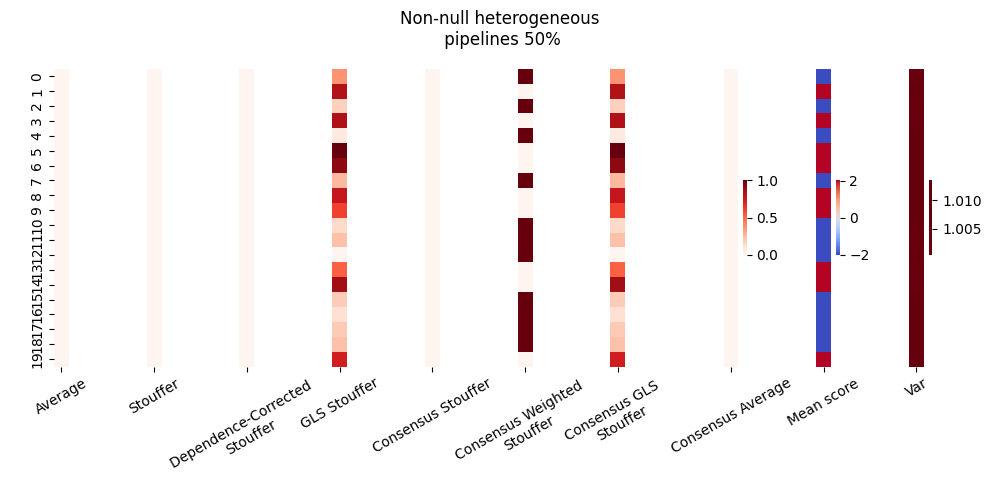
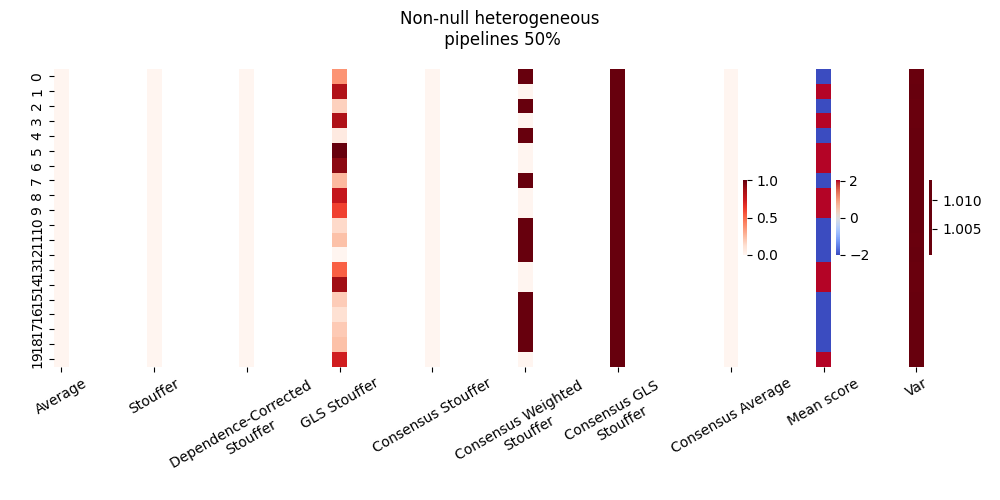
add maxminscaler scale ratio

Changed region(s): [[0.589, 0.12, 0.651, 0.75]]

diff --git a/scripts/MA_estimators.py b/scripts/MA_estimators.py
@@ -152,10 +152,10 @@ def consensus_GLS_Stouffer(contrast_estimates):
     p_values = p_values.reshape(-1)
     
     weights = numpy.ones(K).dot(numpy.linalg.inv(Q))
-    weights = weights.reshape(-1, 1)
-    scaler = MinMaxScaler() # rescale between 0 and 1
-    weights = scaler.fit_transform(weights)
-    print("Per feature relative scaling of the data : ", scaler.scale_)
+    # weights = weights.reshape(-1, 1)
+    # scaler = MinMaxScaler() # rescale between 0 and 1
+    # weights = scaler.fit_transform(weights)
+    # print("Per feature relative scaling of the data : ", scaler.scale_)
     return T_map, p_values, weights
 
 
